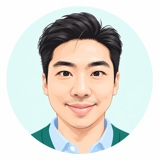
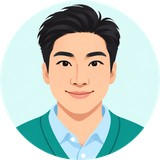
캐릭터를 플랫 일러스트로 교체(실사 느낌 줄임)

diff --git a/docs/index.html b/docs/index.html
@@ -10,12 +10,12 @@
 <meta property="og:description" content="대표님 휴대폰에 기술고문 한 명 저장해두세요. 첫 상담 20분 무료.">
 <meta property="og:type" content="website">
 <meta property="og:url" content="https://yahr.github.io/MyTechUncle/">
-<meta property="og:image" content="https://yahr.github.io/MyTechUncle/assets/og-image.png">
+<meta property="og:image" content="https://yahr.github.io/MyTechUncle/assets/og-image.png?v=2">
 <meta property="og:image:width" content="1200">
 <meta property="og:image:height" content="630">
 <meta name="twitter:card" content="summary_large_image">
-<link rel="icon" href="assets/favicon.ico" sizes="any">
-<link rel="apple-touch-icon" href="assets/apple-touch-icon.png">
+<link rel="icon" href="assets/favicon.ico?v=2" sizes="any">
+<link rel="apple-touch-icon" href="assets/apple-touch-icon.png?v=2">
 <style>
 @font-face { font-family: 'A2z'; font-weight: 500; font-display: swap; src: url(assets/a2z-500.woff2) format('woff2'); }
 @font-face { font-family: 'A2z'; font-weight: 700; font-display: swap; src: url(assets/a2z-700.woff2) format('woff2'); }
@@ -280,10 +280,10 @@ p { margin: 0; }
 .avatar { background: none; width: 120px; height: 120px; }
 .avatar-mark { width: 120px; height: 120px; }
 
-.char-img { display: inline-block; background: url(assets/character.jpg) center / 100% no-repeat; clip-path: circle(46% at 50% 50%); }
+.char-img { display: inline-block; background: url(assets/character.jpg?v=2) center / 100% no-repeat; clip-path: circle(46% at 50% 50%); }
 .avatar-mark { display: block; }
 
-.char-face { display: inline-block; background: url(assets/character-face.jpg) center / 100% no-repeat; clip-path: circle(46% at 50% 50%); }
+.char-face { display: inline-block; background: url(assets/character-face.jpg?v=2) center / 100% no-repeat; clip-path: circle(46% at 50% 50%); }
 
 /* 이런 순간 — 세 줄이 오른쪽에서 왼쪽으로, 줄마다 속도·크기를 달리해 깊이감 */
 .q-sec { overflow-x: clip; }

diff --git a/docs/privacy.html b/docs/privacy.html
@@ -5,7 +5,7 @@
 <meta name="viewport" content="width=device-width, initial-scale=1, viewport-fit=cover">
 <title>개인정보 처리방침 · 나의 기술고문 아저씨</title>
 <meta name="robots" content="noindex">
-<link rel="icon" href="assets/favicon.ico" sizes="any">
+<link rel="icon" href="assets/favicon.ico?v=2" sizes="any">
 <style>
 @font-face { font-family: 'A2z'; font-weight: 700; font-display: swap; src: url(assets/a2z-700.woff2) format('woff2'); }
 :root {
